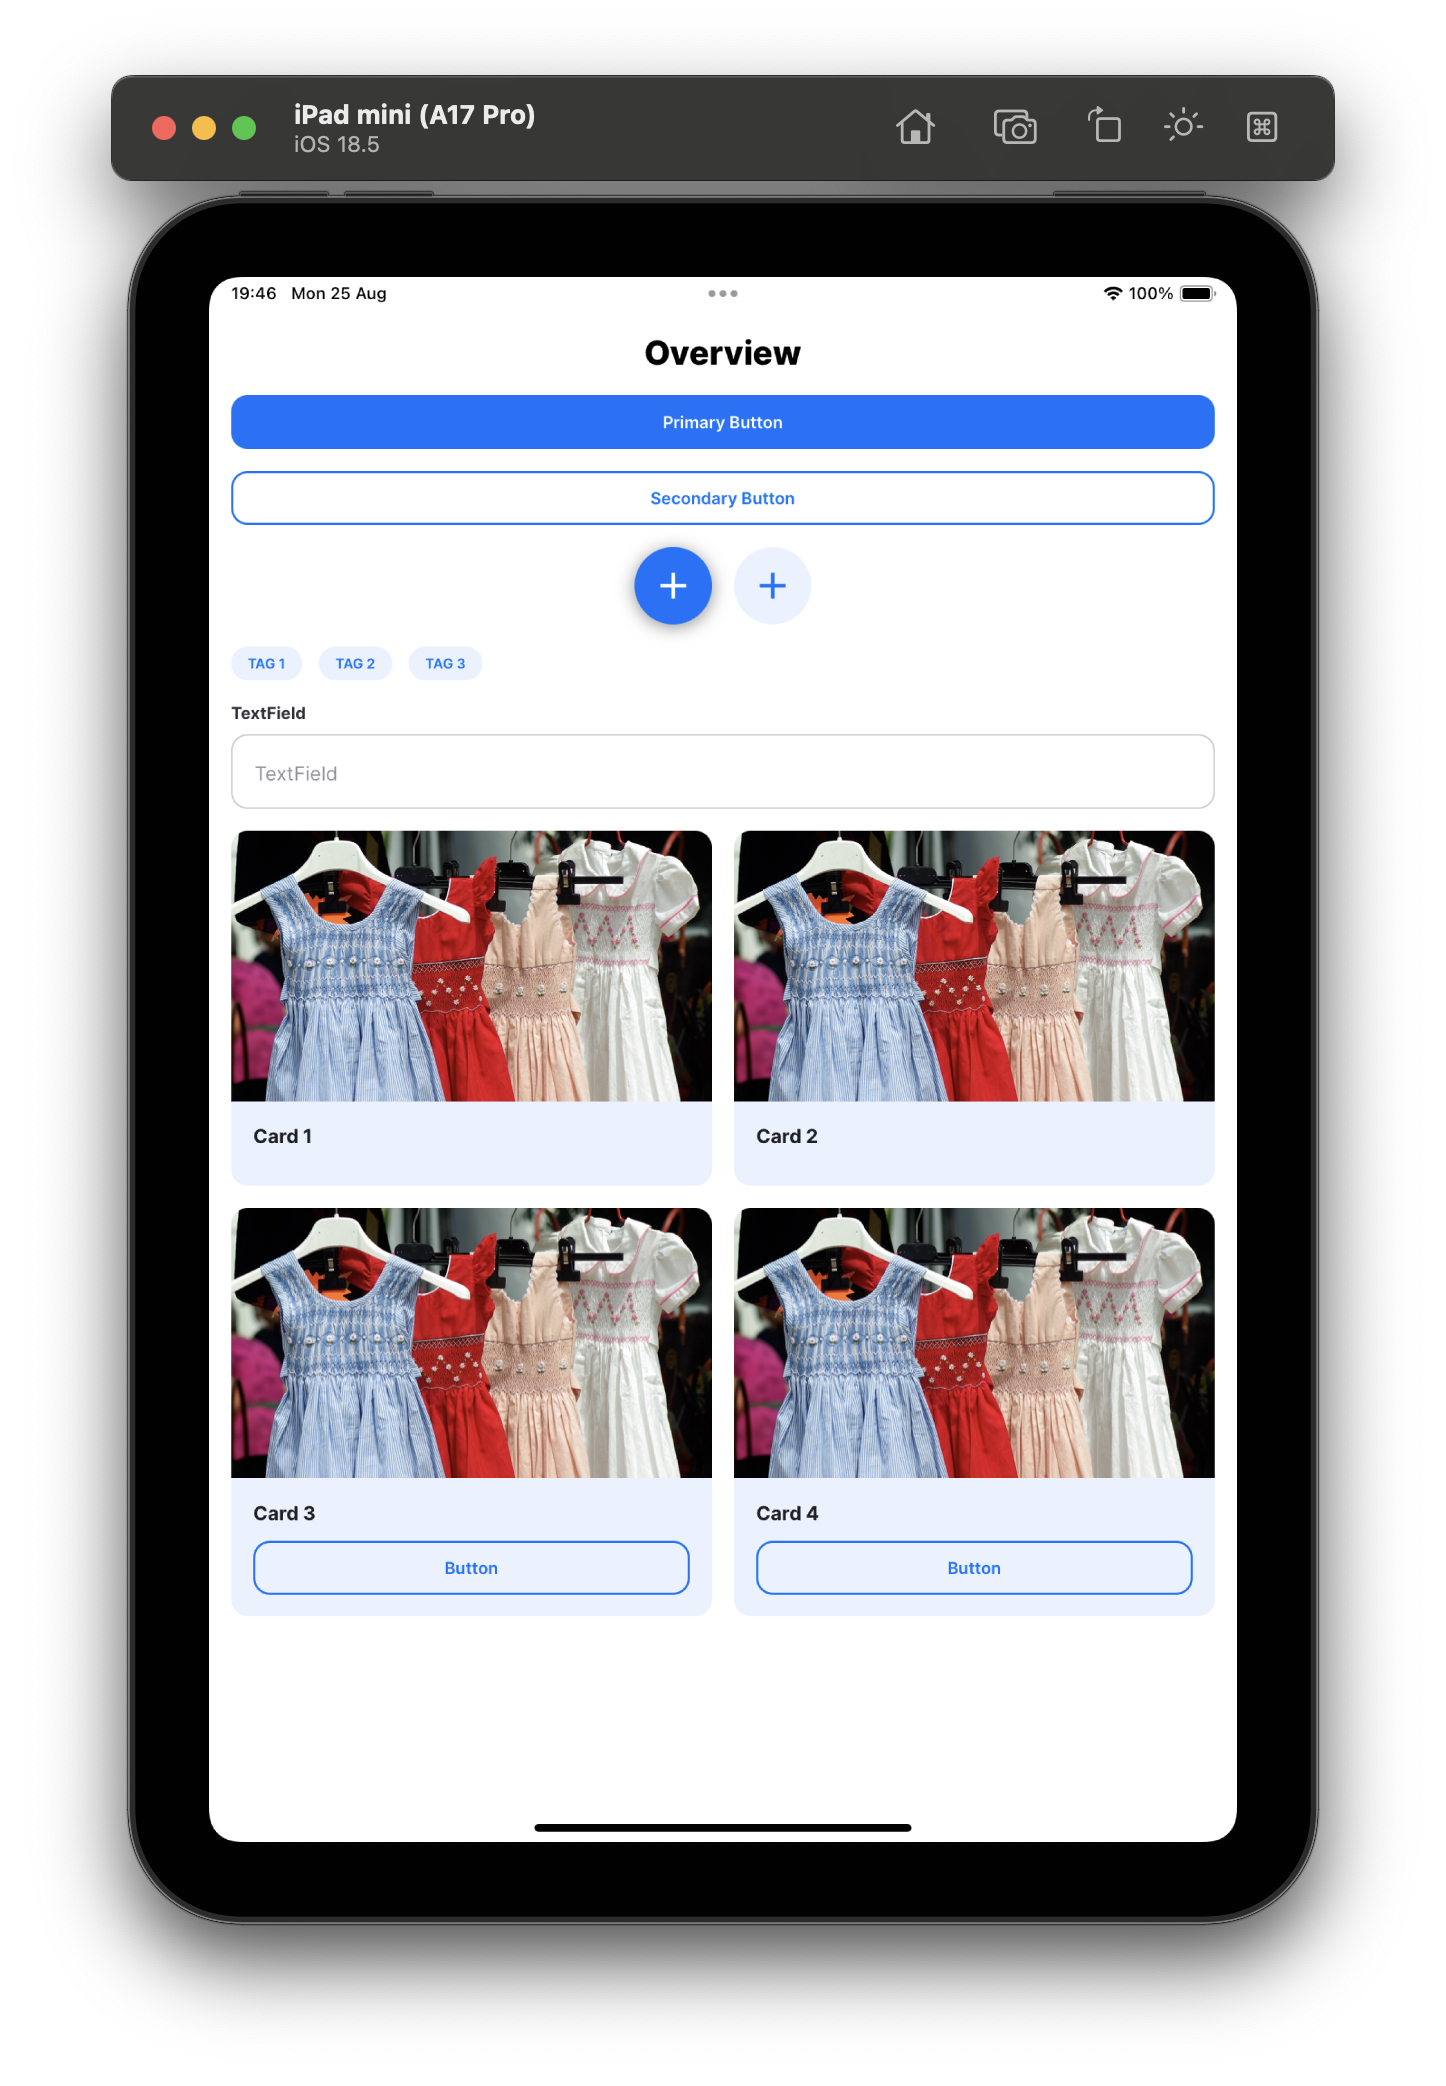
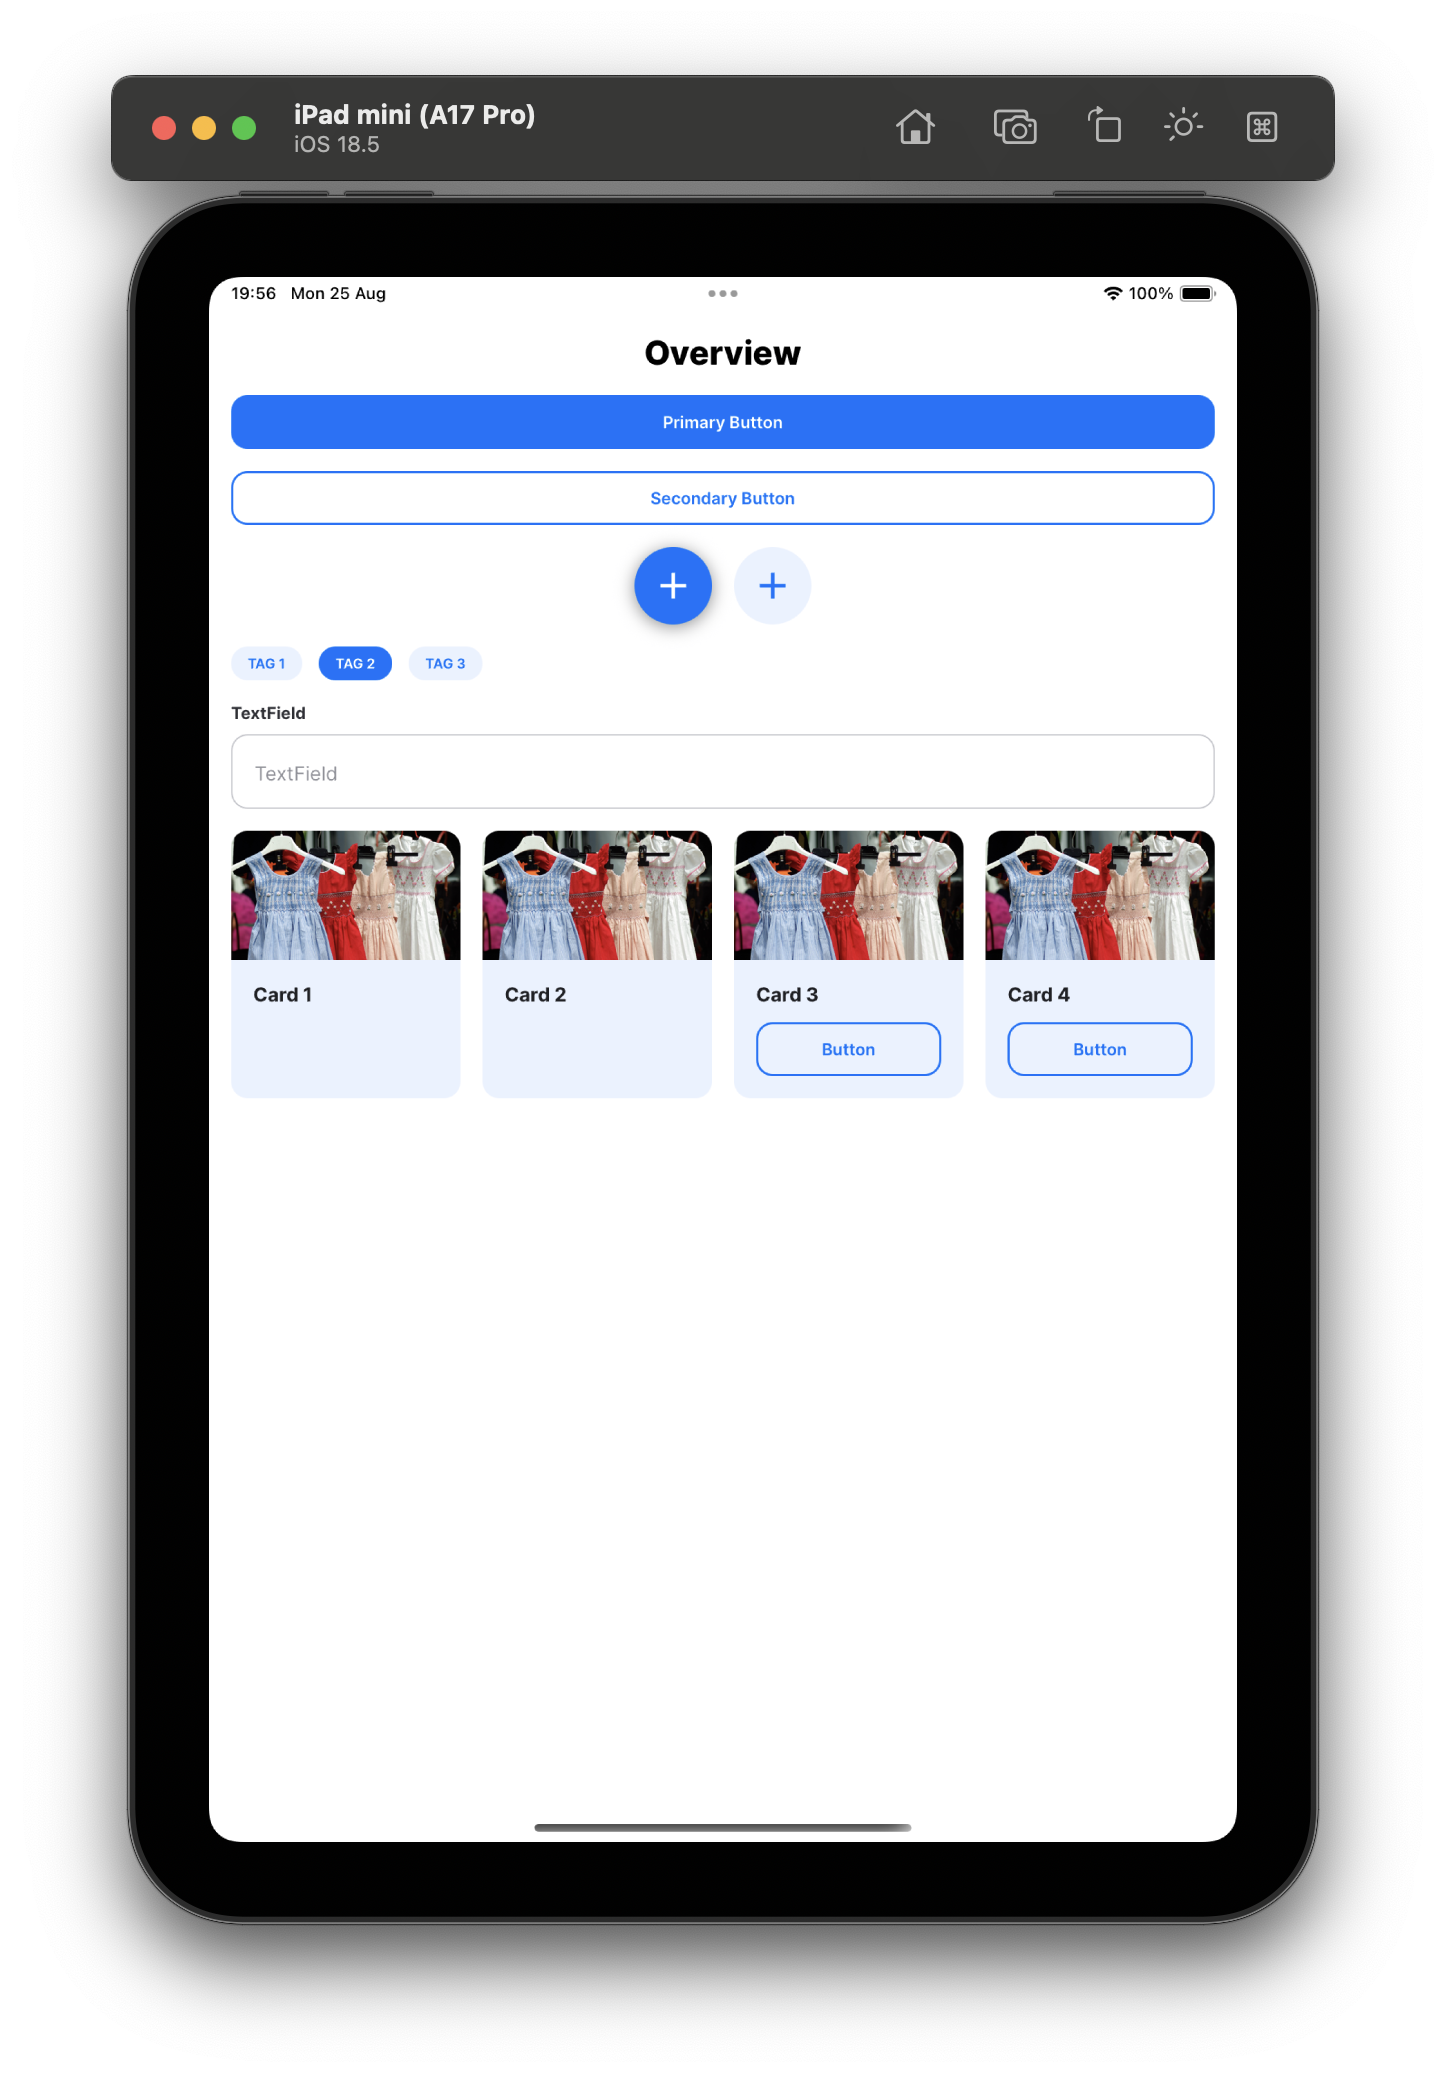
fix

diff --git a/constants/index.ts b/constants/index.ts
@@ -8,7 +8,7 @@ export const ds = {
 
   breakpoints: {
     phone: 0,
-    tablet: 768,
+    tablet: 728,
     desktop: 1024,
   },
 
